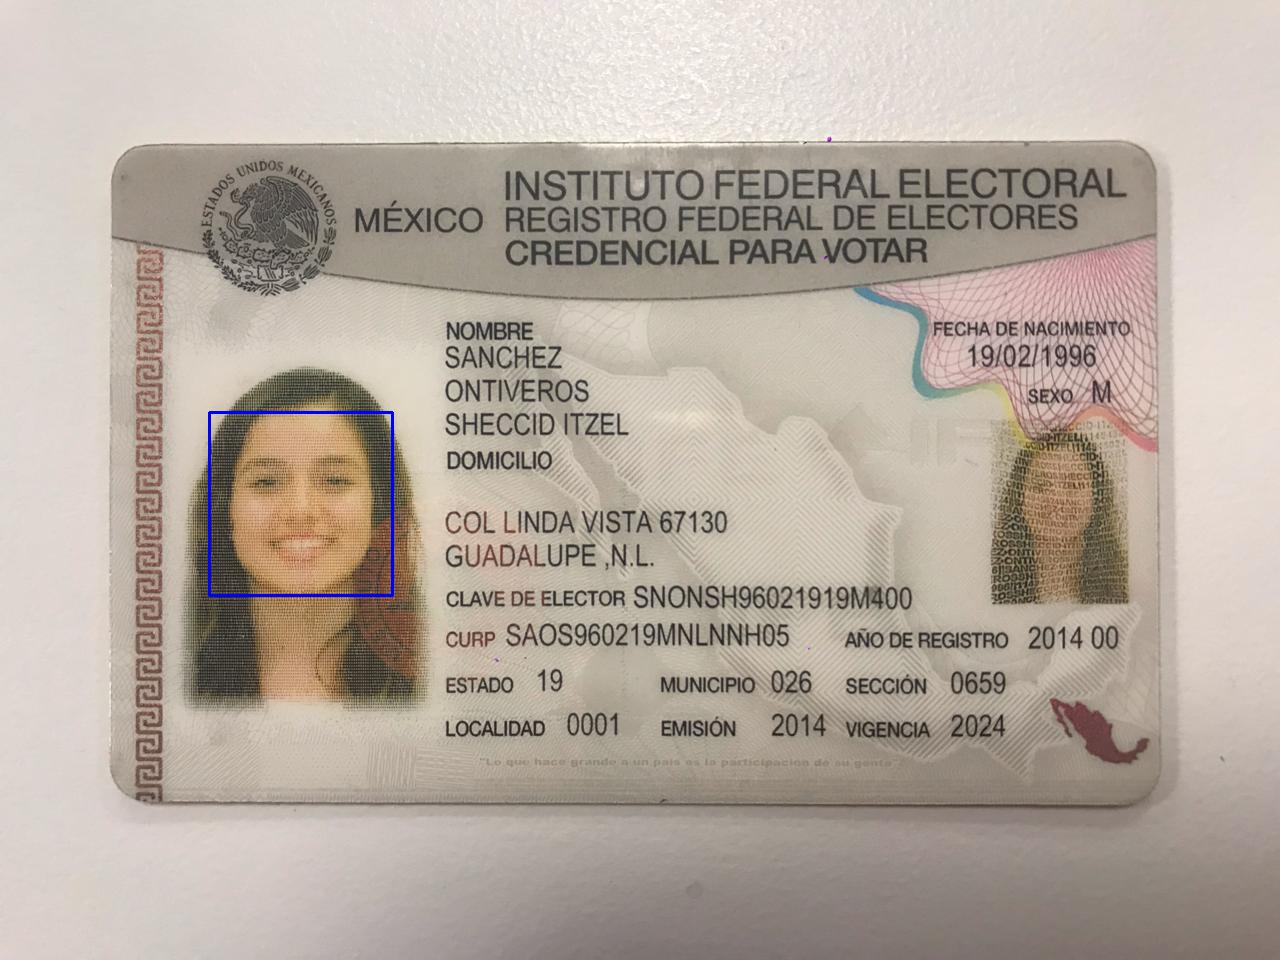
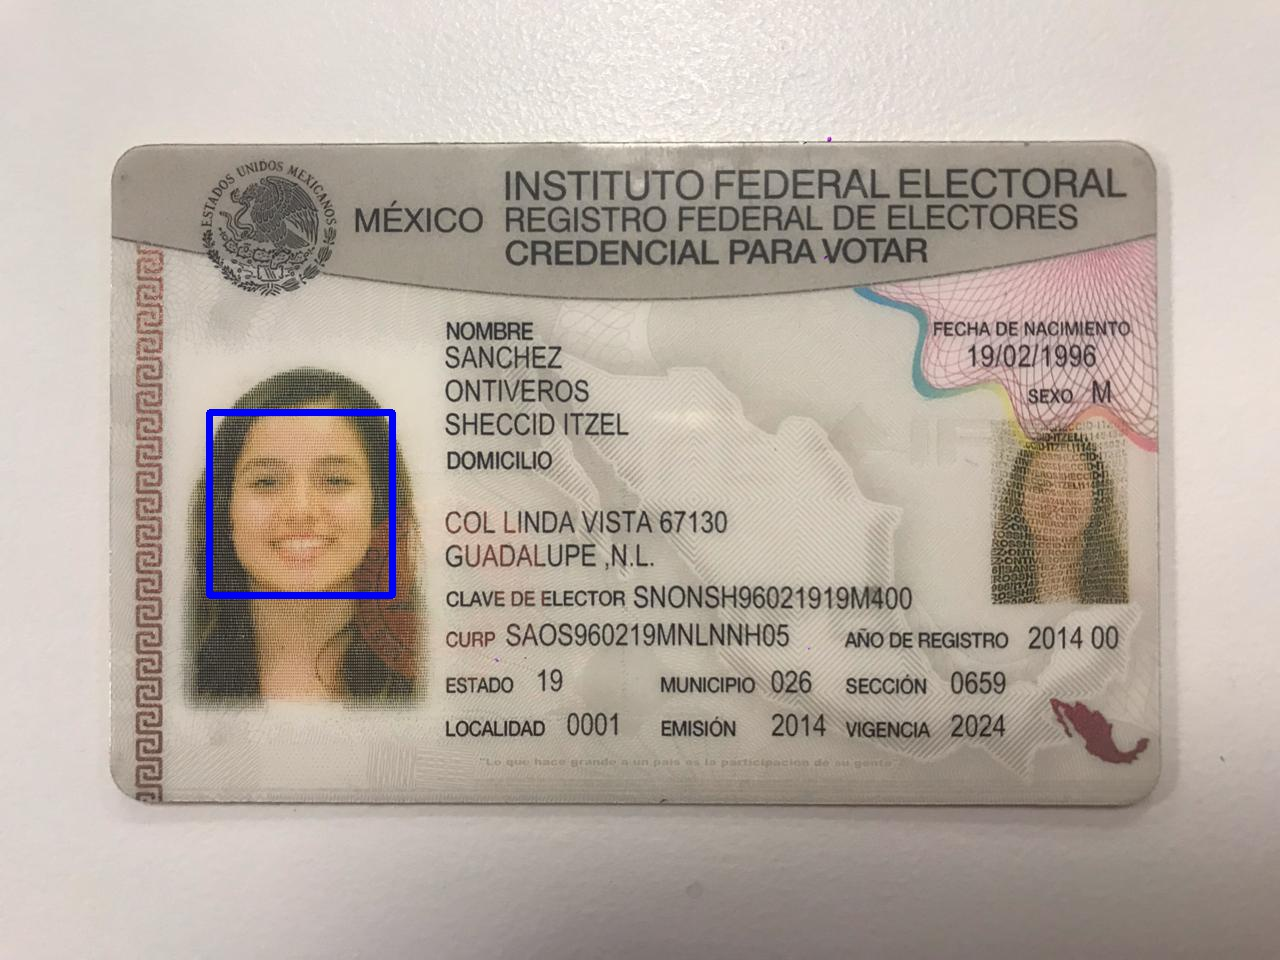
More readme

Changed region(s): [[0.1562, 0.4062, 0.3125, 0.625]]

diff --git a/face-detection/detect-crop-face.py b/face-detection/detect-crop-face.py
@@ -21,7 +21,7 @@ def facechop(image):
     miniframe = cv2.resize(s1, minisize)
 
     faces = cascade.detectMultiScale(miniframe)
-    print(faces)
+    # print(faces)
     dim = []
     for f in faces:
         x, y, w, h = [ v for v in f ]
@@ -33,25 +33,18 @@ def facechop(image):
         # max([(v,i) for i,v in enumerate(my_list)])
         max_dim = max([(v,i) for i,v in enumerate(dim)])
 
-
-
-        # if dimensions[0] > 80:
-        #     face_file_name = "faces/face_" + str(y) + ".jpg"
-        #     print(face_file_name,dimensions)
-        #     cv2.imwrite(face_file_name, sub_face)
-        #     cv2.imshow(image, img)
     for f in range(len(faces)):
-        print(faces[f][2])
-        print(max_dim[0])
+        # print(faces[f][2])
+        # print(max_dim[0])
         x, y, w, h = [ v for v in faces[f]]
         sub_face = img[y:y+h, x:x+w]
         if faces[f][2] == max_dim[0]:
-            cv2.rectangle(img, (x,y), (x+w,y+h), (255,0,0),2)
+            cv2.rectangle(img, (x,y), (x+w,y+h), (255,0,0),5)
             face_file_name = "faces/face_" + str(y) + ".jpg"
-            print(face_file_name,dimensions)
+            # print(face_file_name,dimensions)
             cv2.imwrite(face_file_name, sub_face)
             cv2.imwrite("detected/face_"+str(y)+".jpg",img)
-            # cv2.imshow(image, img)
+            cv2.imshow(image, img)
 
 
 
@@ -66,11 +59,15 @@ def cut_half(img):
     return s1
 
 if __name__ == '__main__':
-    img = "data-set/test3.jpg"
+    img1 = "data-set/test1.jpg"
+    img2 = "data-set/test2.jpg"
+    img3 = "data-set/test3.jpg"
     #Mat halfLeft = frame(Rect(0, 0, frame.cols/2, frame.rows));
 
     # img = cut_half(img)
-    facechop(img)
+    facechop(img1)
+    facechop(img2)
+    facechop(img3)
 
     while(True):
         key = cv2.waitKey(20)

diff --git a/README.md b/README.md
@@ -4,28 +4,38 @@ Proyecto de Inteligencia Artificial y Visión computacional para resolver la sit
 ## Índice
 - [Accenture Challenge - Semana i 2019](#accenture-challenge---semana-i-2019)
   - [Índice](#%c3%8dndice)
-  - [Solución](#soluci%c3%b3n)
-  - [Contenido](#contenido)
-  - [Vehículos](#veh%c3%adculos)
-  - [Placas](#placas)
-  - [Caras](#caras)
-  - [Estacionamiento](#estacionamiento)
-  - [Equipo](#equipo)
+    - [Solución](#soluci%c3%b3n)
+    - [Contenido](#contenido)
+      - [Vehículos](#veh%c3%adculos)
+      - [Placas](#placas)
+      - [Caras](#caras)
+      - [Estacionamiento](#estacionamiento)
+    - [Equipo](#equipo)
 
 
-## Solución
+### Solución
 Nuestra solución consiste en la detección de la entrada de carros, detectando el color de este, sus placas, así como la toma de la imagen de la identificación del conductor.
 
-## Contenido
-* [my-app](https://github.com/DanielSGA/accenture-challenge/tree/master/my-app)
-* [face-detection](https://github.com/DanielSGA/accenture-challenge/tree/master/face-detection)
+### Contenido
+* [my-app](https://github.com/DanielSGA/accenture-challenge/tree/master/my-app): contiene lo relacionado con la web app desarrollada en react para mostrar una aplicación de búsqueda de placas con información del carro y su dueño.
+* [face-detection](https://github.com/DanielSGA/accenture-challenge/tree/master/face-detection): contiene el código para la detección de cara de una identificación que a la vez almacena.
 
 
-## Vehículos
-## Placas
-## Caras
-Utilizando OPENCV en Python, se toman las fotografías para luego tomar el lado izquierdo de esta imagen y detectarla mediante haarcascade.
+#### Vehículos
+Cuando un vehículo va ingresando al estacionamiento, una cámara que graba, detecta que lo que se aproxima es un carro, detecta su color y toma una foto de la placa.
 
+#### Placas
+Al tener una fotografía de la placa, se detecta el texto y se guardan las imágenes de cada carro con el nombre de su placa correspondiente.
 
-## Estacionamiento
-## Equipo
+#### Caras
+Utilizando OPENCV en Python, se toman las fotografías para luego tomar el lado izquierdo de esta imagen y detectarla mediante Haarcascade.
+
+![face](face-detection/detected/face_412.jpg)
+`$ python3 detect-crop-face.py`
+#### Estacionamiento
+
+### Equipo
+* Jorge (IMT)
+* Sheccid Itzel Sánchez (I2D)
+* Daniel Alejandro Saldaña (ITC)
+* Flor Esthela Barbosa A01281460 (ITC)
